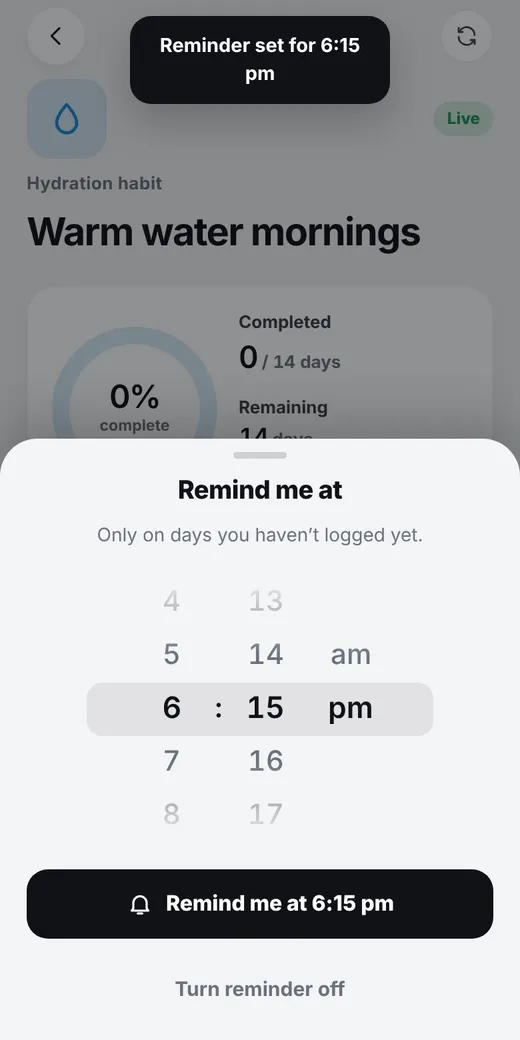
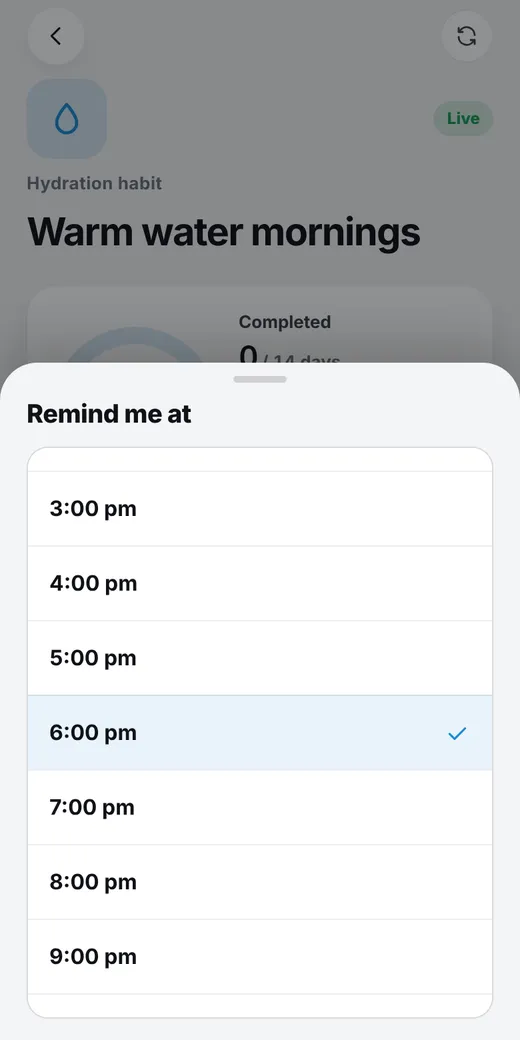
Reminders: back to a drop-down with every hour of the day
Claude-Session: https://claude.ai/code/session_01EPE3CiWcnViBT9HFnV8PVT

diff --git a/src/components/TimeWheel.tsx b/src/components/TimeWheel.tsx
@@ -1,10 +1,5 @@
-import { useEffect, useRef, useState } from 'react';
-import { Sheet } from './Sheet';
-import { Button } from './Form';
-import { Icon } from './Icon';
-
-const ROW = 40;           // px per row
-const VISIBLE = 5;        // rows shown; the middle one is selected
+import { Picker } from './Picker';
+import { REMINDER_TIMES } from '../lib/push';
 
 /** "20:05" → "8:05 pm"; empty → "Off". */
 export function fmtReminder(v: string | null | undefined) {
@@ -13,94 +8,16 @@ export function fmtReminder(v: string | null | undefined) {
   return `${h % 12 || 12}:${String(m).padStart(2, '0')} ${h < 12 ? 'am' : 'pm'}`;
 }
 
-/** One scrolling, snapping column, like the iPhone time picker. */
-function Wheel({ items, index, onIndex, label, width }: { items: string[]; index: number; onIndex: (i: number) => void; label: string; width: number }) {
-  const ref = useRef<HTMLDivElement>(null);
-  const last = useRef(index);
-  const timer = useRef(0);
-
-  useEffect(() => { const el = ref.current; if (el) el.scrollTop = index * ROW; }, []); // eslint-disable-line react-hooks/exhaustive-deps
-
-  const onScroll = () => {
-    const el = ref.current; if (!el) return;
-    const i = Math.max(0, Math.min(items.length - 1, Math.round(el.scrollTop / ROW)));
-    if (i !== last.current) { last.current = i; onIndex(i); try { navigator.vibrate?.(4); } catch { /* not supported */ } }
-    clearTimeout(timer.current);
-    // Settle exactly on a row once scrolling stops (older browsers without scroll-snap).
-    timer.current = window.setTimeout(() => { if (Math.abs(el.scrollTop - i * ROW) > 1) el.scrollTo({ top: i * ROW, behavior: 'smooth' }); }, 120);
-  };
-
-  const step = (d: number) => { const el = ref.current; if (el) el.scrollTo({ top: Math.max(0, Math.min(items.length - 1, index + d)) * ROW, behavior: 'smooth' }); };
-
-  return (
-    <div ref={ref} className="wheel" style={{ width, height: ROW * VISIBLE }} onScroll={onScroll}
-      role="spinbutton" aria-label={label} aria-valuetext={items[index]} tabIndex={0}
-      onKeyDown={(e) => { if (e.key === 'ArrowUp') { e.preventDefault(); step(-1); } if (e.key === 'ArrowDown') { e.preventDefault(); step(1); } }}>
-      <div style={{ height: ROW * 2 }} />
-      {items.map((t, i) => (
-        <div key={t + i} className={`wheel-i${i === index ? ' on' : ''}`} style={{ height: ROW }}
-          onClick={() => ref.current?.scrollTo({ top: i * ROW, behavior: 'smooth' })}>{t}</div>
-      ))}
-      <div style={{ height: ROW * 2 }} />
-    </div>
-  );
-}
-
-const HOURS = Array.from({ length: 12 }, (_, i) => String(i + 1));
-const MINS = Array.from({ length: 60 }, (_, i) => String(i).padStart(2, '0'));
-const AMPM = ['am', 'pm'];
-
-/** Hour · minute · am/pm wheels. Any minute of the day. */
-export function TimeWheels({ value, onChange }: { value: string; onChange: (v: string) => void }) {
-  const [h24, m] = (value || '20:00').split(':').map(Number);
-  const [hi, setHi] = useState((h24 % 12 || 12) - 1);
-  const [mi, setMi] = useState(m);
-  const [pi, setPi] = useState(h24 < 12 ? 0 : 1);
-  useEffect(() => {
-    const h = ((hi + 1) % 12) + (pi === 1 ? 12 : 0);
-    onChange(`${String(h).padStart(2, '0')}:${String(mi).padStart(2, '0')}`);
-  }, [hi, mi, pi]); // eslint-disable-line react-hooks/exhaustive-deps
-  return (
-    <div className="wheels">
-      <div className="wheel-band" aria-hidden="true" />
-      <Wheel items={HOURS} index={hi} onIndex={setHi} label="Hour" width={64} />
-      <span className="wheel-colon" aria-hidden="true">:</span>
-      <Wheel items={MINS} index={mi} onIndex={setMi} label="Minute" width={64} />
-      <Wheel items={AMPM} index={pi} onIndex={setPi} label="AM or PM" width={60} />
-    </div>
-  );
-}
-
 /**
- * Reminder time: a button showing the time (or "Off") that opens a sheet with iPhone-style wheels.
+ * Reminder time: a drop-down with every hour of the day (and "No reminder").
  * value / onChange use "HH:MM" (24h); '' means no reminder.
  */
-export function ReminderPicker({ value, onChange, title = 'Remind me at', compact, fallback = '20:00' }: {
-  value: string; onChange: (v: string) => void; title?: string; compact?: boolean; fallback?: string;
+export function ReminderPicker({ value, onChange, title = 'Remind me at', compact }: {
+  value: string; onChange: (v: string) => void; title?: string; compact?: boolean;
 }) {
-  const [open, setOpen] = useState(false);
-  const [draft, setDraft] = useState(value || fallback);
-  useEffect(() => { if (open) setDraft(value || fallback); }, [open]); // eslint-disable-line react-hooks/exhaustive-deps
-  return (
-    <div className="field">
-      <button type="button" className={`pick-btn ${compact ? 'compact' : ''}`} onClick={() => setOpen(true)} aria-haspopup="dialog"
-        aria-label={`${title}: ${value ? fmtReminder(value) : 'no reminder'}`}>
-        <span className={value ? 'pv' : 'pv ph'}>{value ? fmtReminder(value) : 'Off'}</span>
-        <Icon name="clock" className="ic pchev" />
-      </button>
-      <Sheet open={open} onClose={() => setOpen(false)} label={title}>
-        <div className="stack">
-          <div className="stack tight" style={{ textAlign: 'center' }}>
-            <h2 className="h2">{title}</h2>
-            <p className="small muted">Only on days you haven’t logged yet.</p>
-          </div>
-          {open ? <TimeWheels value={draft} onChange={setDraft} /> : null}
-          <Button onClick={() => { onChange(draft); setOpen(false); }}>
-            <Icon name="bell" />Remind me at {fmtReminder(draft)}
-          </Button>
-          {value ? <button type="button" className="link-btn muted" style={{ alignSelf: 'center' }} onClick={() => { onChange(''); setOpen(false); }}>Turn reminder off</button> : null}
-        </div>
-      </Sheet>
-    </div>
-  );
+  // Keep an older saved time that isn't on the hour (e.g. 6:15 pm) selectable.
+  const options = value && !REMINDER_TIMES.some((o) => o.value === value)
+    ? [...REMINDER_TIMES, { value, label: fmtReminder(value) }].sort((a, b) => a.value.localeCompare(b.value))
+    : REMINDER_TIMES;
+  return <Picker compact={compact} title={title} value={value} options={options} search={false} near="20:00" onChange={onChange} />;
 }

diff --git a/src/styles/global.css b/src/styles/global.css
@@ -676,17 +676,6 @@ button.hrow > .ic { color: var(--muted); flex: none; }
 .hrow.missed { background: color-mix(in srgb, var(--bad) 6%, transparent); }
 .card.hero.missed { border-color: color-mix(in srgb, var(--bad) 40%, transparent); }
 
-/* ---------- iPhone-style time wheels ---------- */
-.wheels { position: relative; display: flex; justify-content: center; align-items: center; gap: 2px; padding: 4px 0; user-select: none; -webkit-user-select: none; }
-.wheel-band { position: absolute; left: 50%; top: 50%; width: min(260px, 100%); height: 40px; transform: translate(-50%, -50%); border-radius: 12px; background: color-mix(in srgb, var(--ink) 8%, transparent); pointer-events: none; }
-.wheel { position: relative; overflow-y: scroll; scroll-snap-type: y mandatory; scrollbar-width: none; -webkit-overflow-scrolling: touch; overscroll-behavior: contain;
-  -webkit-mask-image: linear-gradient(transparent, #000 30%, #000 70%, transparent); mask-image: linear-gradient(transparent, #000 30%, #000 70%, transparent); outline: none; }
-.wheel::-webkit-scrollbar { display: none; }
-.wheel-i { scroll-snap-align: center; display: grid; place-items: center; font-family: var(--font-d); font-size: 21px; font-weight: 500; color: var(--muted); font-variant-numeric: tabular-nums; cursor: pointer; transition: color .15s, transform .15s; }
-.wheel-i.on { color: var(--ink); font-weight: 600; transform: scale(1.06); }
-.wheel-colon { position: relative; font-family: var(--font-d); font-size: 21px; font-weight: 600; color: var(--ink); margin: 0 -2px; }
-.wheel:focus-visible { box-shadow: 0 0 0 2px var(--focus); border-radius: 10px; }
-
 /* ---------- brand + guide ---------- */
 .brand-bar { display: flex; align-items: center; gap: 8px; font-family: var(--font-d); font-size: 13.5px; font-weight: 700; letter-spacing: -.01em; color: var(--ink-2); }
 .brand-bar .brand-mark { border-radius: 7px; overflow: hidden; }

diff --git a/src/lib/push.ts b/src/lib/push.ts
@@ -95,11 +95,9 @@ export async function testNotification(): Promise<'shown' | 'in-app'> {
   return 'in-app';
 }
 
+/** Every hour of the day, 12 am to 11 pm. */
 export const REMINDER_TIMES = [
   { value: '', label: 'No reminder' },
-  { value: '06:00', label: '6:00 am' }, { value: '07:00', label: '7:00 am' }, { value: '08:00', label: '8:00 am' },
-  { value: '10:00', label: '10:00 am' }, { value: '12:00', label: '12:00 pm' }, { value: '14:00', label: '2:00 pm' },
-  { value: '17:00', label: '5:00 pm' }, { value: '18:00', label: '6:00 pm' }, { value: '19:00', label: '7:00 pm' },
-  { value: '20:00', label: '8:00 pm' }, { value: '21:00', label: '9:00 pm' }, { value: '22:00', label: '10:00 pm' },
+  ...Array.from({ length: 24 }, (_, h) => ({ value: `${String(h).padStart(2, '0')}:00`, label: `${h % 12 || 12}:00 ${h < 12 ? 'am' : 'pm'}` })),
 ];
 export const reminderLabel = (v: string | null) => REMINDER_TIMES.find((r) => r.value === (v ?? ''))?.label ?? v ?? 'No reminder';

diff --git a/src/screens/Guide.tsx b/src/screens/Guide.tsx
@@ -9,7 +9,7 @@ const STEPS: Step[] = [
   { title: 'Link Strava once', line: 'Paste your Strava profile link. Only your own walks can be added.', shot: 'strava-link' },
   { title: 'Add your walk, run or ride', line: 'After recording in Strava:', flow: ['Strava', 'Share', 'Copy link', 'Paste here'], shot: 'add' },
   { title: 'Log habits every day', line: 'On Today, tap a habit and answer.', shot: 'log' },
-  { title: 'Set a reminder', line: 'Pick any time. We remind you only if you haven’t logged.', shot: 'reminder' },
+  { title: 'Set a reminder', line: 'Pick an hour. We remind you only if you haven’t logged.', shot: 'reminder' },
   { title: 'Climb the leaderboard', line: 'Finish in the top 3 to win a trophy.', shot: 'podium' },
 ];
 
